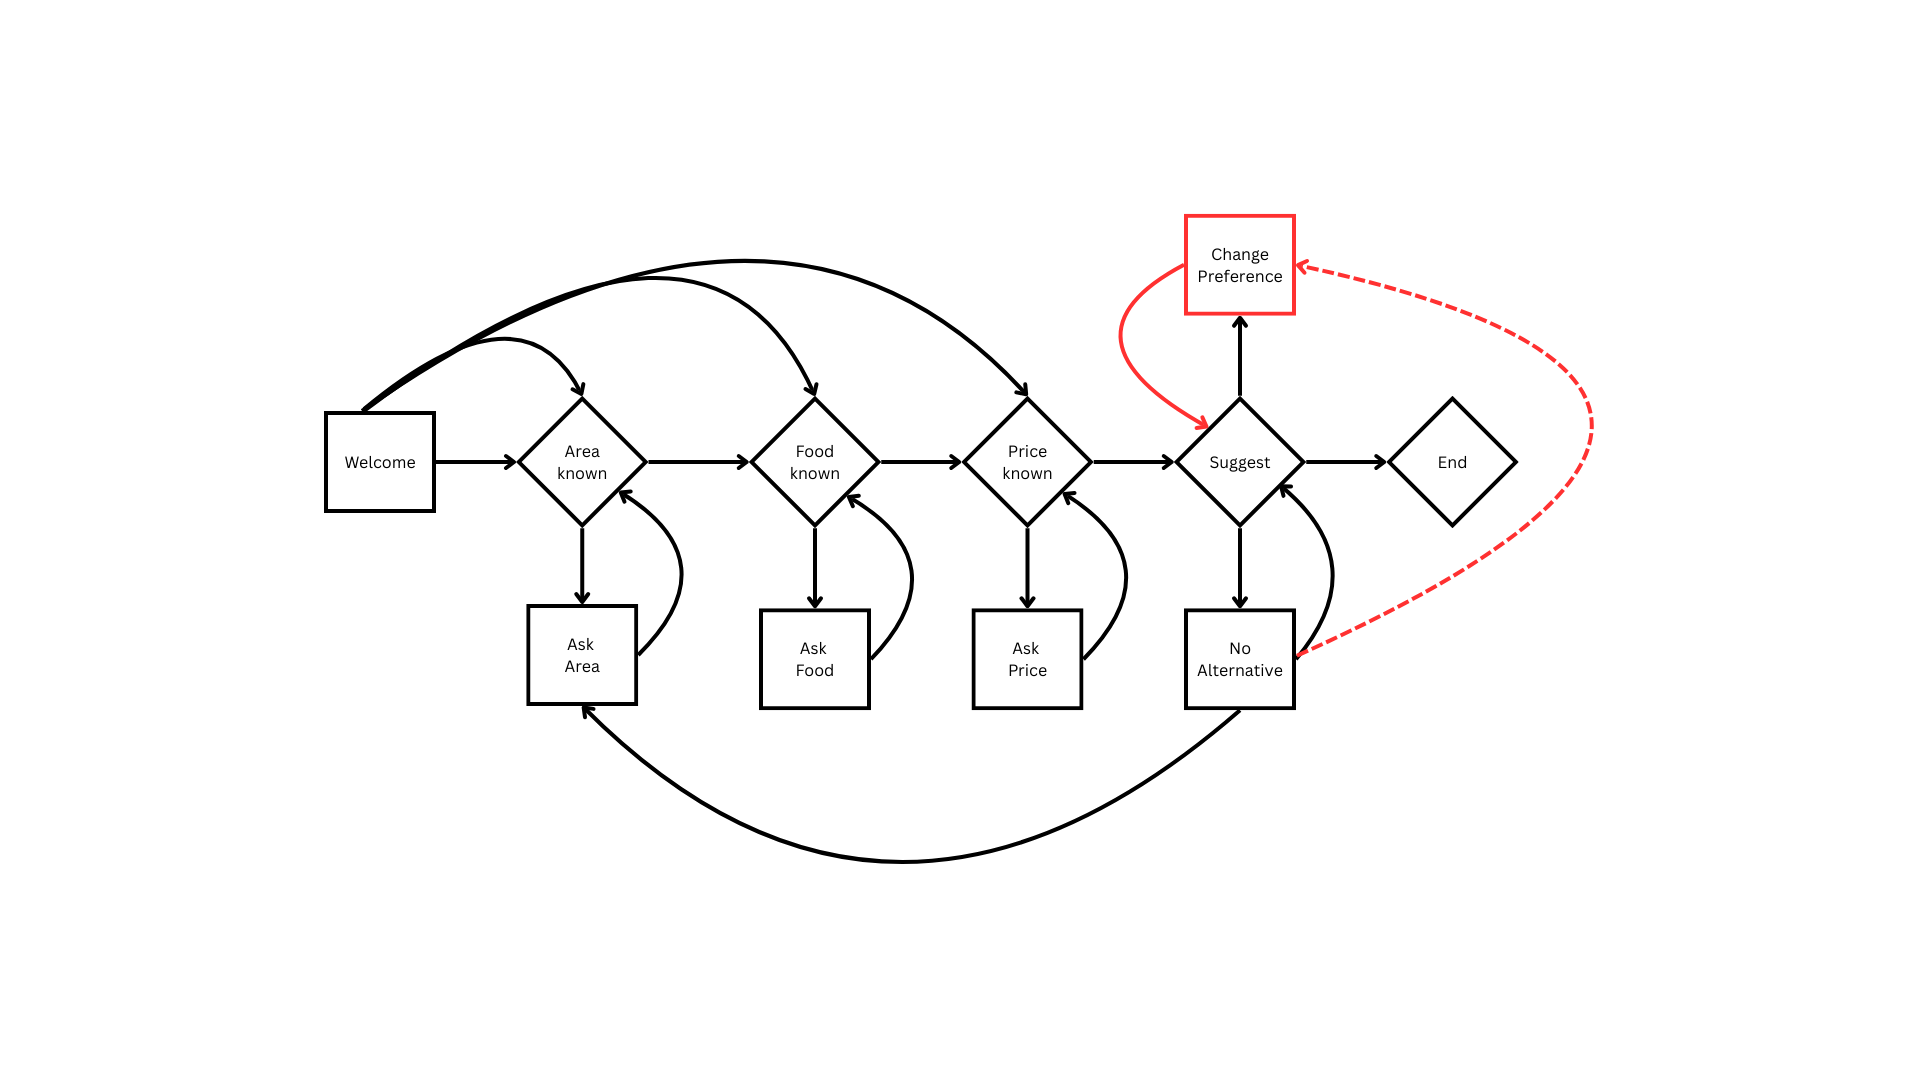
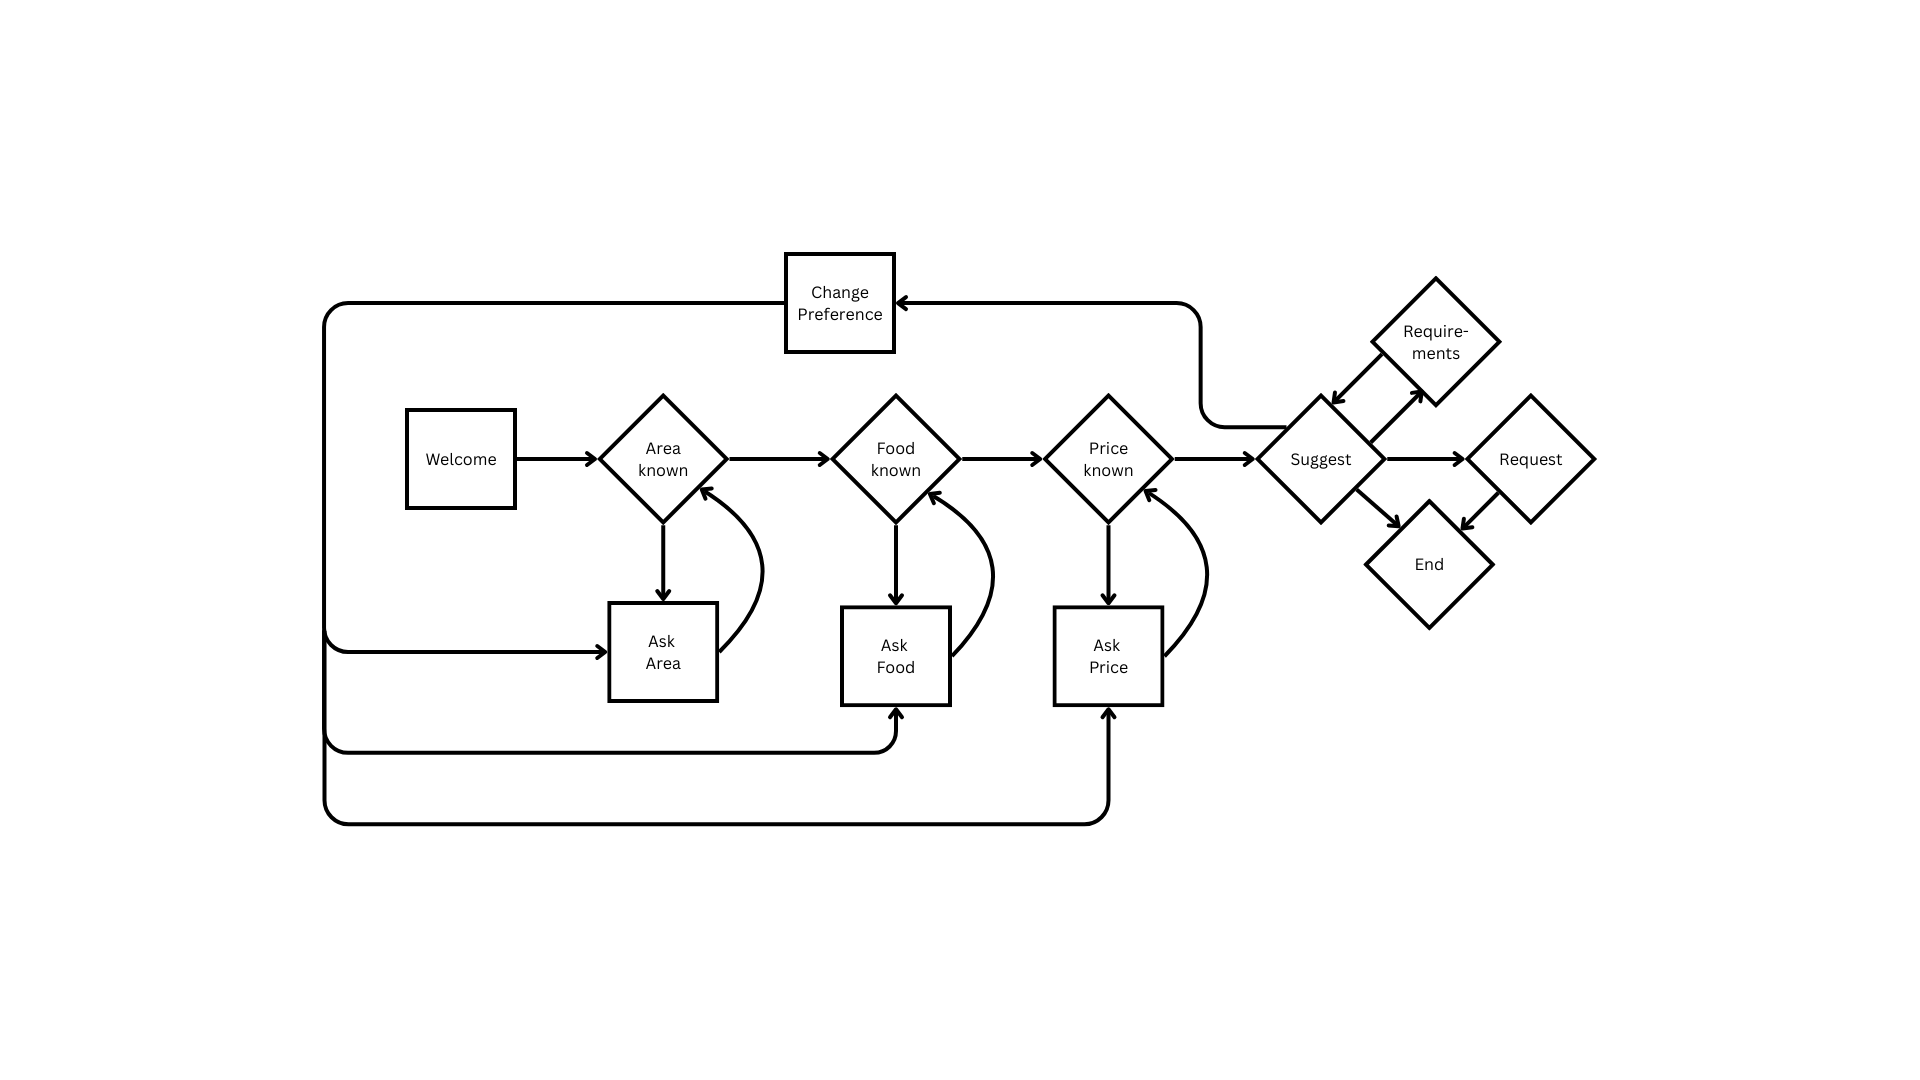
Changed state flow (basic --> extra --> suggest

diff --git a/Lab 2/utils/dialog_manager.py b/Lab 2/utils/dialog_manager.py
@@ -53,39 +53,26 @@ class DialogManager(DialogManagerBase):
         # --- NEW: automatically add extra slot states if the df contains those columns
         # minimal additions: add ask_food_quality, ask_crowdedness, ask_length_of_stay
         extra_slots = [
-            ('ask_food_quality', 'food_quality'),
+            ('ask_food_quality', 'foodquality'),
             ('ask_crowdedness', 'crowdedness'),
-            ('ask_length_of_stay', 'length_of_stay'),
+            ('ask_length_of_stay', 'lengthstay'),
         ]
         for state_name, slot_name in extra_slots:
             if slot_name in self.df.columns and slot_name not in self.slot_states.values():
                 # add to slot_states so dialog will prompt for them
                 self.slot_states[state_name] = slot_name
-                # add simple default template if none present
-                if f"ask_{slot_name}" not in self.templates:
-                    # human-friendly wording for length_of_stay
-                    prompt = "How long do you plan to stay?" if slot_name == 'length_of_stay' else f"What {slot_name.replace('_', ' ')} would you prefer?"
-                    self.templates[f"ask_{slot_name}"] = prompt
 
-        # original slot order based on keys of slot_states
-        self.slot_order = states.get('slot_order', list(self.slot_states.keys()))
-        # if slot_order from config doesn't include newly added states, recompute so new states are asked later
-        # keep the original order for existing ones, then append any new ones
-        config_order = states.get('slot_order', None)
-        if config_order is None:
-            # simply use the keys order (already set)
-            self.slot_order = list(self.slot_states.keys())
-        else:
-            # preserve configured order, append any extra states that were added above
-            ordered = [s for s in config_order if s in self.slot_states]
-            for s in self.slot_states:
-                if s not in ordered:
-                    ordered.append(s)
-            self.slot_order = ordered
+        # separate basic slots from extra slots
+        self.basic_slots = ['ask_area', 'ask_food', 'ask_pricerange']
+        self.extra_slots = [s for s in self.slot_states.keys() if s not in self.basic_slots]
+
+        # slot order: basic slots first, then extra slots
+        self.slot_order = [s for s in self.basic_slots if s in self.slot_states] + self.extra_slots
         # --- END NEW
 
         self.suggest_state = states.get('suggest_state', 'suggest')
         self.no_alts_state = states.get('no_alts_state', 'no_alts')
+        self.additional_req_state = states.get('additional_req_state', 'add_req')
         self.end_state = states.get('end_state', 'end')
         self.init_state = states.get('init_state', 'init')
 
@@ -95,6 +82,7 @@ class DialogManager(DialogManagerBase):
         self.preferences = {v: None for v in self.slot_states.values()}
         self.text_columns = list(self.slot_states.values())
         self.suggest_counter = 0
+        self.additional_req_asked = False  # Track if we've asked for additional requirements
 
         # components (allow dependency injection for testing)
         self.extractor = extractor or SlotExtractor.from_config_file(config_path)
@@ -162,6 +150,18 @@ class DialogManager(DialogManagerBase):
         return "inform"
 
     def next_missing_state(self) -> Tuple[str, str]:
+        # Check if basic slots (area, food, pricerange) are all filled
+        basic_slots_filled = all(
+            self.preferences.get(self.slot_states.get(state)) is not None
+            for state in self.basic_slots
+            if state in self.slot_states
+        )
+
+        # If basic slots are filled and we have extra slots available and haven't asked yet
+        if basic_slots_filled and self.extra_slots and not self.additional_req_asked:
+            return self.additional_req_state, self.templates.get('additional_req', "Do you have any additional requirements?")
+
+        # Check for missing slots in order (basic first, then extra)
         for state in self.slot_order:
             slot = self.slot_states.get(state)
             if slot is None:
@@ -179,7 +179,7 @@ class DialogManager(DialogManagerBase):
 
     def _handle_slot_state(self, state: str, utterance: str, dialog_act: str) -> Tuple[str, str]:
         slot = self.slot_states[state]
-        if dialog_act == 'inform':
+        if dialog_act in ['inform', 'null']: ## added because the dialog act makes mistakes
             if 'any' in (utterance or '').split():
                 self.preferences[slot] = 'any'
                 return self.next_missing_state()
@@ -241,6 +241,28 @@ class DialogManager(DialogManagerBase):
         if current_state in self.slot_states:
             return self._handle_slot_state(current_state, user_utterance, dialog_act)
 
+        if current_state == self.additional_req_state:
+            self.additional_req_asked = True 
+            if dialog_act in ['affirm', 'ack']:
+                return self.next_missing_state()
+            elif dialog_act in ['negate', 'deny']:
+                # Fill all extra slots with 'any' to skip them
+                for state in self.extra_slots:
+                    slot = self.slot_states.get(state)
+                    if slot and self.preferences.get(slot) is None:
+                        self.preferences[slot] = 'any'
+
+                suggestions = self.sugg_engine.get_suggestions(self.preferences)
+                if len(suggestions) > 0:
+                    suggestion_name = suggestions.iloc[self.suggest_counter % len(suggestions)]['restaurantname']
+                    self.last_suggested = suggestion_name
+                    self.suggest_counter += 1
+                    return self.suggest_state, f"How about {suggestion_name}?"
+                return self.no_alts_state, self.templates.get('no_alts', "I couldn't find matches")
+            else:
+                self.additional_req_asked = False
+                return self.additional_req_state, self.templates.get('additional_req', "Do you have any additional requirements?")
+
         if current_state == self.suggest_state:
             print(dialog_act)
             if dialog_act == "request":
@@ -263,6 +285,7 @@ class DialogManager(DialogManagerBase):
             if dialog_act in ['affirm', 'ack']:
                 self.preferences = {v: None for v in self.slot_states.values()}
                 self.suggest_counter = 0
+                self.additional_req_asked = False
                 return self.next_missing_state()
 
             slot, value = self.parser.parse_change_request(utterance)
@@ -270,6 +293,7 @@ class DialogManager(DialogManagerBase):
                 if self.allow_restart == True:
                     self.preferences = {v: None for v in self.slot_states.values()}
                     self.suggest_counter = 0
+                    self.additional_req_asked = False
                     return self.next_missing_state()[0], self.templates.get('reset_confirm', 'Restarting') + " " + self.templates.get(self.next_missing_state()[0], '')
                 else:
                     return self.no_alts_state, self.templates.get('no_reset','No resets allowed')
